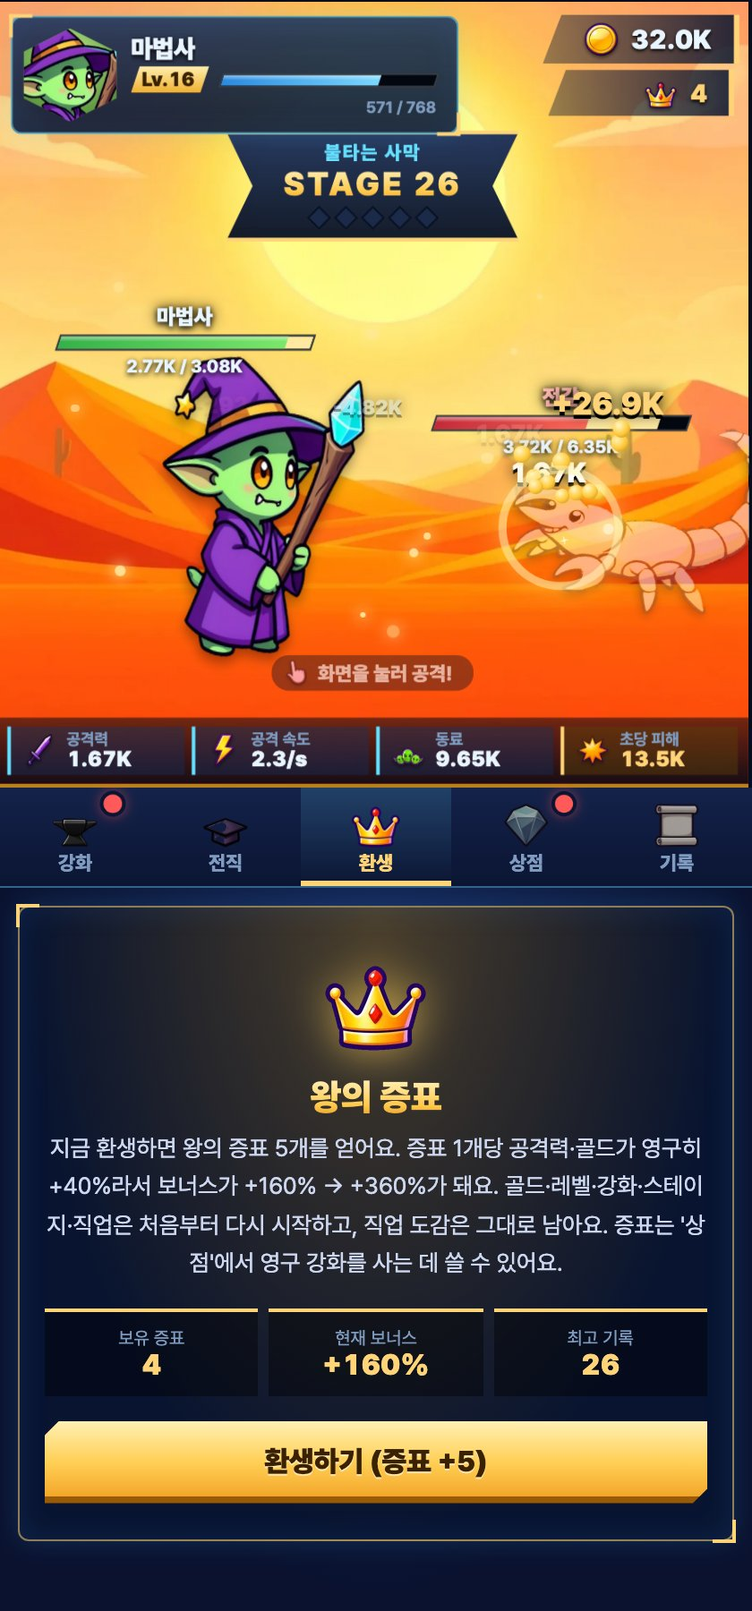
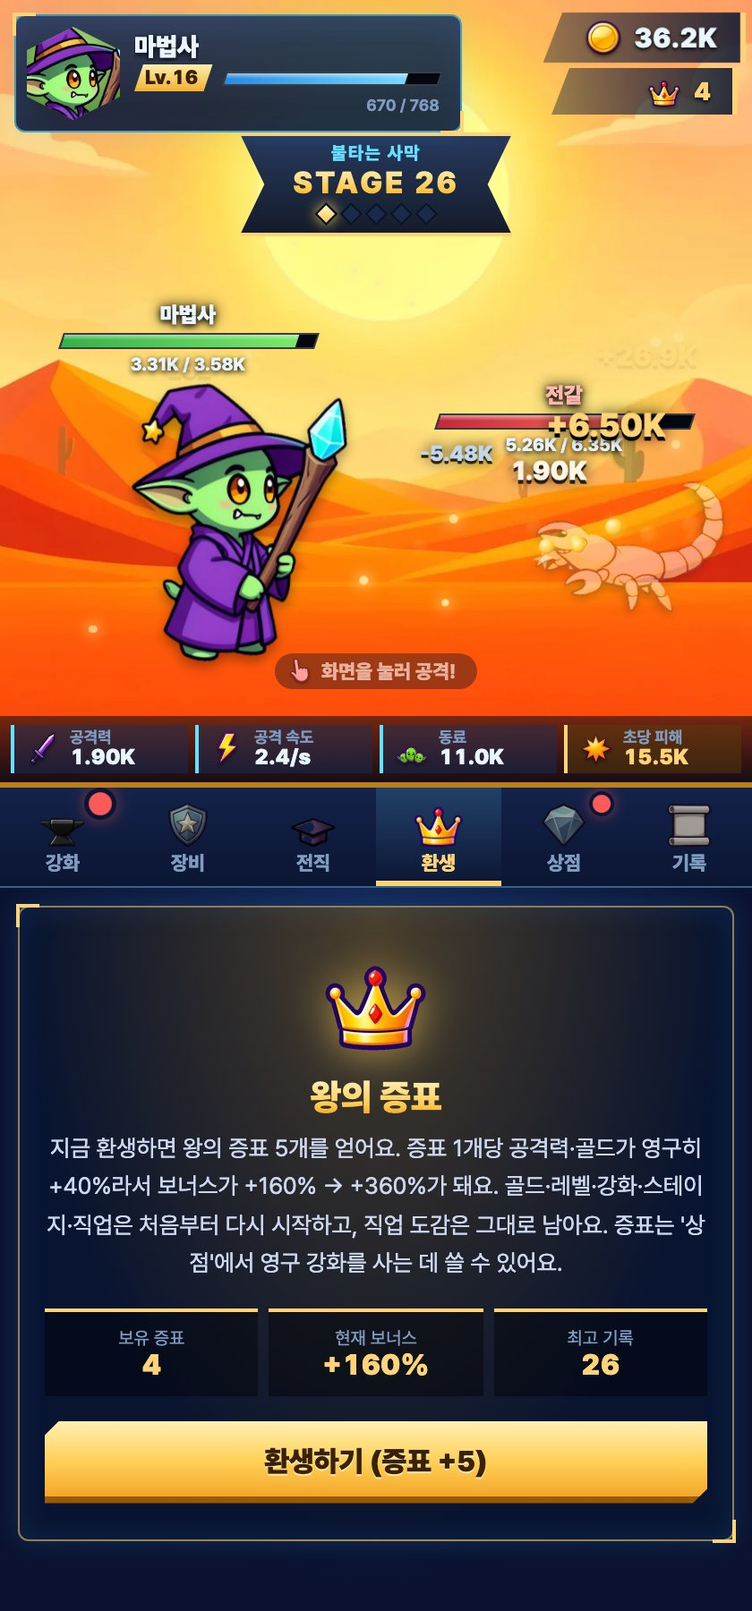
README·스크린샷 갱신, 시뮬레이터 씨앗 평균, 장비 브라우저 점검 추가

diff --git a/tools/ui-check.js b/tools/ui-check.js
@@ -33,14 +33,25 @@ const sleep = (ms) => new Promise((r) => setTimeout(r, ms));
     await send('Emulation.setDeviceMetricsOverride', { width: 420, height: 900, deviceScaleFactor: 1, mobile: true });
 
     // 저장 데이터: 스테이지 20 근처, 증표 20개, 골드 넉넉히
-    const s = G.createState(0); s.tokens = 20; s.gold = 5e4; s.level = 22; s.stage = 21; s.runBest = s.bestStage = 21;
+    const s = G.createState(0); s.tokens = 20; s.gold = 5e4; s.level = 22; s.stage = 6; s.runBest = s.bestStage = 21;
     s.cls = 'mage'; s.adv = 'pyromancer'; s.mastered.pyromancer = true; s.dex.pyromancer = { best: 24, kills: 300, runs: 1 };
+    // 장비: 무기 하나를 차고, 가방에 종류·등급이 다른 장비 6개
+    const it = (o) => Object.assign({ id: 1, slot: 'weapon', kind: 'dmg', r: 0, ilvl: 10, val: 5, n: 0 }, o);
+    s.autoSell = -1;
+    s.equip.weapon = it({ id: 1, r: 0, val: 5 });
+    s.bag.push(it({ id: 2, r: 2, val: 30, ilvl: 18 }), it({ id: 3, slot: 'armor', kind: 'hp', r: 1, val: 12 }),
+      it({ id: 4, slot: 'accessory', kind: 'gold', r: 0, val: 7 }), it({ id: 5, slot: 'weapon', r: 1, val: 9 }),
+      it({ id: 6, slot: 'accessory', kind: 'aps', r: 3, val: 11, ilvl: 20 }), it({ id: 7, slot: 'armor', kind: 'hp', r: 0, val: 6 }));
+    s.itemSeq = 7;
     s.hp = G.maxHp(s);
     const save = G.serialize(s, Date.now());
     fs.writeFileSync(path.join(profile, 'seed.html'), '<!doctype html><title>s</title>');
     await send('Page.navigate', { url: 'file://' + path.join(profile, 'seed.html') }); await sleep(300);
     await ev(`localStorage.setItem('goblin-idle-save-v1', ${JSON.stringify(save)})`);
     await send('Page.navigate', { url: 'file://' + ROOT + '/index.html' }); await sleep(1500);
+
+    // 전투 중 장비가 무작위로 떨어지면 가방 개수가 달라져 점검이 흔들린다 → 기본은 드롭이 없게 난수를 고정한다
+    await ev(`Game.setRandom(() => 0.999)`);
 
     console.log('탭 공격 모션');
     const before = await ev(`document.getElementById('monsterHpText').textContent`);
@@ -96,6 +107,58 @@ const sleep = (ms) => new Promise((r) => setTimeout(r, ms));
     await ev(`document.querySelector('.dexcard.is-off').click()`); await sleep(300);
     check('미달성 카드는 힌트 창이 열린다', await ev(`document.getElementById('modalTitle').textContent === '???'`));
     await ev(`document.querySelector('#modalActions .btn').click()`);
+
+    console.log('장비');
+    await ev(`document.querySelector('[data-go="gear"]').click()`); await sleep(400);
+    check('장비 탭이 열린다', await ev(`!document.querySelector('.tab[data-tab="gear"]').hidden`));
+    check('장착 칸이 3개 보이고 무기만 채워져 있다', (await ev(`document.querySelectorAll('#slots .slot').length`)) === 3 && (await ev(`document.querySelectorAll('#slots .slot.is-empty').length`)) === 2);
+    check('가방에 장비 6개가 보인다', (await ev(`document.querySelectorAll('#bag .gitem[data-item]').length`)) === 6);
+    check('드롭 확률표에 다섯 등급이 나온다', (await ev(`document.querySelectorAll('#dropInfo .droptable tr').length`)) === 6);
+    await shot('gear');
+    // 희귀 무기(id 2)를 눌러 상세 창 → 비교 표시 → 장착
+    await ev(`document.querySelector('.gitem[data-item="2"]').click()`); await sleep(300);
+    check('가방 장비를 누르면 정보 창이 열리고 장착 중인 장비와 비교해 보여 준다', await ev(`!document.getElementById('modal').hidden && document.getElementById('modalBody').textContent.includes('▲')`));
+    await shot('itemmodal');
+    await ev(`document.querySelector('#modalActions .btn--gold').click()`); await sleep(350);
+    check('장착하면 무기 칸이 그 장비(희귀)로 바뀐다', await ev(`!!document.querySelector('#slots .slot.r2[data-slot="weapon"]')`));
+    check('밀려난 기존 무기는 가방으로 간다 (가방 6개 유지)', (await ev(`document.querySelectorAll('#bag .gitem[data-item]').length`)) === 6);
+    // 판매
+    const goldBefore = await ev(`document.getElementById('gold').textContent`);
+    await ev(`document.querySelector('.gitem[data-item="7"]').click()`); await sleep(250);
+    await ev(`document.querySelector('#modalActions .btn--blue').click()`); await sleep(350);
+    check('판매하면 가방에서 사라진다', (await ev(`document.querySelectorAll('#bag .gitem[data-item]').length`)) === 5);
+    check('판매하면 골드가 늘어난다', (await ev(`document.getElementById('gold').textContent`)) !== goldBefore);
+    // 영웅 이상은 판매 전에 한 번 더 확인
+    await ev(`document.querySelector('.gitem[data-item="6"]').click()`); await sleep(250);
+    await ev(`document.querySelector('#modalActions .btn--blue').click()`); await sleep(300);
+    check('영웅 장비를 팔려 하면 확인 창이 한 번 더 뜬다', (await ev(`document.getElementById('modalTitle').textContent`)) === '정말 팔까요?');
+    await ev(`document.querySelector('#modalActions .btn:not(.btn--blue)').click()`); await sleep(200);
+    check('취소하면 그대로 남는다', (await ev(`document.querySelectorAll('#bag .gitem[data-item]').length`)) === 5);
+    // 일괄 판매 (노말·고급만)
+    await ev(`document.getElementById('sellAllBtn').click()`); await sleep(250);
+    await ev(`document.querySelector('#modalActions .btn--gold').click()`); await sleep(350);
+    check('일괄 판매하면 희귀 이상만 남는다', (await ev(`[...document.querySelectorAll('#bag .gitem[data-item]')].every((b) => b.classList.contains('r2') || b.classList.contains('r3') || b.classList.contains('r4'))`)));
+    // 설정은 바로 저장된다
+    await ev(`(() => { const sel = document.getElementById('autoSell'); sel.value = '2'; sel.dispatchEvent(new Event('change')); document.getElementById('autoEquip').click(); })()`); await sleep(200);
+    const saved = JSON.parse(await ev(`localStorage.getItem('goblin-idle-save-v1')`));
+    check('자동 판매·자동 장착 설정이 저장된다', saved.autoSell === 2 && saved.autoEquip === false, JSON.stringify([saved.autoSell, saved.autoEquip]));
+    // 전설 장비를 강제로 떨어뜨려 연출·기록·알림 점 확인
+    await ev(`document.querySelector('[data-go="upgrade"]').click()`); await sleep(300);
+    await ev(`(() => { let c = 0; Game.setRandom(() => (c++ % 6 === 0 ? 0 : 0.9999)); })()`);
+    let legend = false;
+    for (let i = 0; i < 12 && !legend; i++) {
+      await ev(`(() => { const r = document.getElementById('scene').getBoundingClientRect(); document.getElementById('scene').dispatchEvent(new PointerEvent('pointerdown', { clientX: r.left + r.width*0.68, clientY: r.top + r.height*0.6, bubbles: true, cancelable: true })); })()`);
+      await sleep(120);
+      legend = await ev(`[...document.querySelectorAll('#log li')].some((li) => li.textContent.includes('전설'))`);
+    }
+    await ev(`Game.setRandom(() => 0.999)`);   // 다시 드롭이 없게
+    check('전설 장비가 드롭되면 기록에 남는다', legend);
+    check('장비 탭에 새 장비 알림 점이 뜬다', await ev(`!document.querySelector('[data-go="gear"] .dot').hidden`));
+    await shot('legend');
+    await ev(`document.querySelector('[data-go="gear"]').click()`); await sleep(300);
+    check('장비 탭을 열면 새 장비에 NEW가 붙는다', (await ev(`document.querySelectorAll('#bag .gitem.is-new, #slots .slot').length`)) > 0);
+    await ev(`document.querySelector('[data-go="upgrade"]').click()`); await sleep(300);
+    check('탭을 떠나면 알림 점이 사라진다', await ev(`document.querySelector('[data-go="gear"] .dot').hidden`));
 
     console.log('오래 돌려도 안정적인가 (전투 10초)');
     await ev(`document.querySelector('[data-go="upgrade"]').click()`);

diff --git a/tools/simulate.js b/tools/simulate.js
@@ -2,6 +2,14 @@
 // 사용법: node tools/simulate.js [분(기본 30)] [직업경로 예: warrior/knight (생략하면 전부 비교)]
 const G = require('../game.js');
 
+// 장비 드롭도 무작위라 한 번의 결과는 운에 흔들린다. 씨앗이 있는 난수로 여러 번 돌려 평균을 낸다.
+function seeded(seed) {
+  let a = seed >>> 0;
+  return () => { a = (a + 0x6D2B79F5) >>> 0; let t = a; t = Math.imul(t ^ (t >>> 15), t | 1); t ^= t + Math.imul(t ^ (t >>> 7), t | 61); return ((t ^ (t >>> 14)) >>> 0) / 4294967296; };
+}
+const SEEDS = [1, 2, 3, 4, 5, 6, 7, 8];
+const mean = (xs) => xs.reduce((a, b) => a + b, 0) / xs.length;
+
 const BUY_ORDER = ['weapon', 'armor', 'speed', 'companion', 'loot'];
 
 // 가장 싼 강화부터 산다 (골드를 남기지 않는 '완벽히 쓰는' 봇)
@@ -32,12 +40,23 @@ function playRun(s, path, seconds, marks) {
   return t;
 }
 
-// 한 경로로 minutes분 동안 플레이 (환생 없이)
+// 한 경로로 minutes분 동안 플레이 (환생 없이). 씨앗마다 돌려 평균을 낸다.
+// 도달 시간은 절반 이상의 씨앗이 도달한 경우에만 평균을 내고, 아니면 null.
 function runOne(path, minutes) {
-  const s = G.createState(0);
-  const marks = [10, 20, 30, 40, 50].map((stage) => ({ stage, t: null }));
-  playRun(s, path, minutes * 60, marks);
-  return { s, marks };
+  const stages = [10, 20, 30, 40, 50];
+  const runs = SEEDS.map((seed) => {
+    G.setRandom(seeded(seed));
+    const s = G.createState(0);
+    const marks = stages.map((stage) => ({ stage, t: null }));
+    playRun(s, path, minutes * 60, marks);
+    return { final: s.runBest, level: s.level, marks };
+  });
+  const marks = stages.map((stage, i) => {
+    const ts = runs.map((r) => r.marks[i].t).filter((t) => t !== null);
+    return { stage, t: ts.length * 2 >= runs.length ? mean(ts) : null };
+  });
+  const finals = runs.map((r) => r.final);
+  return { marks, final: mean(finals), min: Math.min(...finals), max: Math.max(...finals), level: mean(runs.map((r) => r.level)) };
 }
 
 // 증표로 상점 강화를 산다: 가장 싼 것부터, 살 수 있는 만큼 (기본 3가지를 먼저 올리는 것과 비슷한 효과)
@@ -52,17 +71,21 @@ function spendTokens(s) {
   }
 }
 
-// 정체되면 환생하는 봇. 한 판을 minutes분씩 돌려 몇 번째 판에 어디까지 가는지 본다.
+// 정체되면 환생하는 봇. 한 판을 minutes분씩 돌려 몇 번째 판에 어디까지 가는지 본다 (씨앗별 평균).
 function runPrestiges(path, runMinutes, runs, usePerks) {
-  const s = G.createState(0);
-  const out = [];
-  for (let i = 0; i < runs; i++) {
-    playRun(s, path, runMinutes * 60, []);
-    out.push({ run: i + 1, stage: s.runBest, tokens: s.tokens, spent: G.perkSpent(s) });
-    G.prestige(s);
-    if (usePerks) spendTokens(s);
-  }
-  return out;
+  const all = SEEDS.map((seed) => {
+    G.setRandom(seeded(seed));
+    const s = G.createState(0);
+    const out = [];
+    for (let i = 0; i < runs; i++) {
+      playRun(s, path, runMinutes * 60, []);
+      out.push({ run: i + 1, stage: s.runBest, tokens: s.tokens, spent: G.perkSpent(s) });
+      G.prestige(s);
+      if (usePerks) spendTokens(s);
+    }
+    return out;
+  });
+  return all[0].map((_, i) => ({ run: i + 1, stage: Math.round(mean(all.map((o) => o[i].stage))), tokens: Math.round(mean(all.map((o) => o[i].tokens))), spent: Math.round(mean(all.map((o) => o[i].spent))) }));
 }
 
 const fmtMin = (t) => (t === null ? '  -  ' : (t / 60).toFixed(1).padStart(5) + '분');
@@ -74,10 +97,11 @@ for (const b of Object.keys(G.CLASSES)) for (const a of G.CLASSES[b].adv) paths.
 const selected = only ? paths.filter((p) => p.join('/') === only) : paths;
 
 console.log(`\n== 환생 없이 ${minutes}분 (스테이지 도달 시간) ==`);
-console.log('경로'.padEnd(22) + '10     20     30     40     50    최종  Lv');
+console.log(`(씨앗 ${SEEDS.length}개 평균)`);
+console.log('경로'.padEnd(22) + '10     20     30     40     50    최종(최소~최대)  Lv');
 for (const p of selected) {
-  const { s, marks } = runOne(p, minutes);
-  console.log(p.join('/').padEnd(20) + marks.map((m) => fmtMin(m.t)).join(' ') + `  ${String(s.runBest).padStart(3)}  ${s.level}`);
+  const r = runOne(p, minutes);
+  console.log(p.join('/').padEnd(20) + r.marks.map((m) => fmtMin(m.t)).join(' ') + `  ${r.final.toFixed(1).padStart(5)} (${r.min}~${r.max})  ${r.level.toFixed(0)}`);
 }
 
 console.log('\n== 환생 반복 (한 판 15분씩 10번) ==');

diff --git a/tools/screenshot.js b/tools/screenshot.js
@@ -13,10 +13,18 @@ const CHROME = process.env.CHROME || '/Applications/Google Chrome.app/Contents/M
 const PORT = 9333;
 const sleep = (ms) => new Promise((r) => setTimeout(r, ms));
 
+// 씨앗이 있는 난수: 장비 드롭이 무작위라도 스크린샷이 매번 같게 나오도록 한다
+function seeded(seed) {
+  let a = seed >>> 0;
+  return () => { a = (a + 0x6D2B79F5) >>> 0; let t = a; t = Math.imul(t ^ (t >>> 15), t | 1); t ^= t + Math.imul(t ^ (t >>> 7), t | 61); return ((t ^ (t >>> 14)) >>> 0) / 4294967296; };
+}
+
 // 봇이 강화를 사면서 플레이한 것처럼 진행시켜 보기 좋은 저장 데이터를 만든다.
 // until(s)이 참이 되는 순간에서 멈추고, 전직은 레벨 조건을 채웠을 때만 한다 (불가능한 상태를 만들지 않음).
-function makeSave({ until, cls, adv, promoteAdv = true, tokens = 0, prestiges = 0, mastered = [], dex = {}, perks = {} }) {
+function makeSave({ until, cls, adv, promoteAdv = true, tokens = 0, prestiges = 0, mastered = [], dex = {}, perks = {}, autoSell = 0, seed = 11 }) {
+  G.setRandom(seeded(seed));
   const s = G.createState(0);
+  s.autoSell = autoSell;
   s.tokens = tokens;
   s.prestiges = prestiges;
   s.perks = perks;
@@ -108,6 +116,7 @@ async function main() {
     await shot('battle-ice', makeSave({ until: (s) => s.stage >= 33, ...mage, tokens: 4 }));    // 얼음 산맥
     await shot('class', makeSave({ until: (s) => s.level >= 20, ...mage, promoteAdv: false, tokens: 2 }), { tab: 'class' });
     await shot('achievements', makeSave({ until: (s) => s.stage >= 36, ...mage, tokens: 4, prestiges: 1 }), { tab: 'log' });
+    await shot('gear', makeSave({ until: (s) => s.stage >= 40, ...mage, tokens: 4, autoSell: -1, seed: 21 }), { tab: 'gear' });
     await shot('shop', makeSave({ until: (s) => s.stage >= 20, ...mage, tokens: 24, perks: { might: 4, greed: 3, vitality: 2, click: 1 } }), { tab: 'shop' });
     await shot('codex', makeSave({
       until: (s) => s.level >= 20, ...mage, tokens: 8, mastered: ['knight', 'sniper', 'necromancer'],

diff --git a/README.md b/README.md
@@ -6,12 +6,13 @@
 
 <p align="center">
   <img src="docs/battle.jpg" width="24%" alt="어둠의 동굴 보스전">
-  <img src="docs/battle-ice.jpg" width="24%" alt="얼음 산맥">
-  <img src="docs/class.jpg" width="24%" alt="2차 전직 선택">
+  <img src="docs/gear.jpg" width="24%" alt="장비">
   <img src="docs/codex.jpg" width="24%" alt="직업 도감">
+  <img src="docs/shop.jpg" width="24%" alt="증표 상점">
 </p>
 <p align="center">
-  <img src="docs/shop.jpg" width="24%" alt="증표 상점">
+  <img src="docs/battle-ice.jpg" width="24%" alt="얼음 산맥">
+  <img src="docs/class.jpg" width="24%" alt="2차 전직 선택">
   <img src="docs/achievements.jpg" width="24%" alt="업적">
   <img src="docs/prestige.jpg" width="24%" alt="환생">
 </p>
@@ -24,6 +25,26 @@
   - 무기·갑옷·동료·약탈은 **레벨 10마다 효과가 1.5배**가 되는 마일스톤이 있어서, 강화를 이어 갈수록 성장이 계속됩니다.
 - 5스테이지마다 **보스**가 나옵니다. 고블린이 쓰러지면 한 스테이지 뒤로 물러납니다.
 - 10스테이지마다 **지역**이 바뀝니다: 고블린 숲 → 어둠의 동굴 → 불타는 사막 → 얼음 산맥 → 화산 지대 → 저주받은 성. 지역마다 배경과 몬스터, 떠다니는 빛의 색이 다릅니다.
+
+### 장비
+
+몬스터를 잡으면 **확률로 장비가 떨어집니다.** 일반 몬스터는 8%, 보스는 50%입니다.
+
+- **3칸:** 무기(공격력), 방어구(최대 체력), 액세서리(골드 / 공격 속도 / 동료 공격 / 직접 공격 중 하나)
+- **등급:** 노말 · 고급 · 희귀 · 영웅 · 전설. 높을수록 확률이 낮습니다.
+
+| 등급 | 일반 몬스터 | 보스 |
+|---|---|---|
+| 노말 | 62% | 0% |
+| 고급 | 25% | 45% |
+| 희귀 | 9.5% | 35% |
+| 영웅 | 3% | 16% |
+| 전설 | 0.5% | 4% |
+
+- **수치:** 등급이 높을수록 크고 ±15% 무작위이며, **높은 스테이지에서 얻을수록 커집니다**(스테이지 40에서 나온 장비는 스테이지 1의 약 2배). 전설 무기는 스테이지 40에서 공격력 +52% 안팎입니다.
+- **방치형에 맞춘 관리:** 더 좋은 장비를 얻으면 **자동 장착**하고, 정한 등급 이하는 얻자마자 **자동 판매**해 골드로 바꿉니다(둘 다 끄고 켤 수 있음). 가방은 24칸이고 가득 차면 새 장비는 자동으로 팔립니다. 노말·고급 **일괄 판매**도 있습니다.
+- 장비를 누르면 지금 낀 장비와 수치를 **비교**해 보여 주고, 영웅 이상을 팔 때는 한 번 더 확인합니다.
+- 장비는 환생해도 남고, 증표 상점의 '수집가'로 드롭 확률을 올릴 수 있습니다. 창을 닫아 둔 사이에 얻은 장비도 돌아왔을 때 알려 줍니다.
 
 ### 전직
 
@@ -61,10 +82,11 @@
 | 2 | 강타 | 직접 공격 +25% (최대 Lv.5) | 용사의 힘 Lv.3 |
 | 2 | 동료의 유대 | 동료 공격 +10% (최대 Lv.10) | 강철 체력 Lv.3 |
 | 2 | 든든한 휴식 | 오프라인 보상 한도 +1시간 (최대 Lv.4) | 탐욕 Lv.3 |
+| 2 | 수집가 | 장비 드롭 확률 +1.5%p (최대 Lv.10) | 탐욕 Lv.2 |
 | 3 | 빠른 출발 | 환생 후 무기·갑옷을 Lv.+3 상태로 시작 (최대 Lv.5) | 용사의 힘 Lv.5 |
 | 3 | 왕의 위엄 | 공격력·골드 +5% (최대 Lv.5) | 용사의 힘 Lv.5 + 탐욕 Lv.5 |
 
-가격은 레벨이 오를수록 비싸지고(다음 레벨 = 기본 가격 × (현재 레벨 + 1)개), 구매하기 전에 무엇을 얼마에 사는지 **확인 창**이 뜹니다. **강화 초기화**를 누르면 쓴 증표를 전부 돌려받아 다른 강화에 다시 쓸 수 있습니다. 전부 채우려면 증표가 445개 필요합니다.
+가격은 레벨이 오를수록 비싸지고(다음 레벨 = 기본 가격 × (현재 레벨 + 1)개), 구매하기 전에 무엇을 얼마에 사는지 **확인 창**이 뜹니다. **강화 초기화**를 누르면 쓴 증표를 전부 돌려받아 다른 강화에 다시 쓸 수 있습니다. 전부 채우려면 증표가 555개 필요합니다.
 
 ### 업적
 
@@ -102,14 +124,17 @@
 - **게임 로직과 화면 코드를 분리했습니다.** `game.js`는 화면과 무관한 순수 함수만 담고, `app.js`가 화면 갱신과 입력 처리를 맡습니다. 덕분에 `game.js`는 Node.js에서 화면 없이 시뮬레이션할 수 있습니다.
 - **밸런스를 시뮬레이션으로 조정했습니다.** 강화를 자동으로 사고 전직·환생하는 봇으로 몇 시간 치 플레이를 돌려 성장 곡선을 확인합니다(`node tools/simulate.js`).
   - 처음 버전은 초반이 너무 빠르고(5분에 스테이지 20) 후반이 막혔습니다(증표 194개, 공격력 약 49배인데도 스테이지 40에서 8판 이상 정체). 강화 효과는 더하기로 늘어나는데 비용은 곱하기로 늘어서 생기는 벽이었습니다.
-  - 여러 조정안을 같은 방식으로 비교해서, 강화 레벨 10마다 효과를 1.5배로 하는 마일스톤과 몬스터 성장 곡선을 골랐습니다. 지금은 스테이지 10이 약 4분, 20이 약 7분, 30이 약 10분에 나오고, 40 부근(약 15~19분)부터 벽이 시작되어 한 판의 한계는 45~50 부근입니다. 환생을 거듭하면(한 판 15분 기준) 36 → 55 → 60 → 65로 올라가다 65 부근에서 멈추고(10판째 72), 증표 상점을 쓰는 봇은 10판째 80까지 갑니다. 상점을 다 채우는 데는 증표 445개(약 35판)가 들어서 장기 목표가 됩니다.
-  - 8가지 직업 경로가 30분 기준 서로 3스테이지 안에서 비슷하게 성장하는지도 확인했습니다(42~45). 2차 전직 레벨을 30에서 20으로 낮춘 것도 이 시뮬레이션 결과입니다(30이면 도달하기 전에 대부분 환생해서 볼 수 없었습니다).
+  - 여러 조정안을 같은 방식으로 비교해서, 강화 레벨 10마다 효과를 1.5배로 하는 마일스톤과 몬스터 성장 곡선을 골랐습니다. 지금은 스테이지 10이 약 4분, 20이 약 6분, 30이 약 9분, 40이 12~15분에 나오고, 30분 뒤에는 45~50 부근에서 벽에 닿습니다. 환생을 거듭하면(한 판 15분 기준) 43 → 59 → 66 → 69 → 73으로 올라 10판째 79이고, 증표 상점을 쓰는 봇은 10판째 86까지 갑니다. 상점을 다 채우는 데는 증표 555개(약 45판)가 들어서 장기 목표가 됩니다.
+  - 장비는 드롭이 무작위라 결과가 운에 흔들립니다. 그래서 시뮬레이터는 **씨앗이 있는 난수로 8번씩 돌려 평균**을 냅니다. 장비를 넣기 전과 비교하면 30분 뒤 도달 스테이지가 42~45에서 45~50으로, 진행이 10~15% 빨라진 정도입니다.
+  - 8가지 직업 경로가 30분 기준 서로 5스테이지 안에서 비슷하게 성장하는지도 확인했습니다(45~50). 2차 전직 레벨을 30에서 20으로 낮춘 것도 이 시뮬레이션 결과입니다(30이면 도달하기 전에 대부분 환생해서 볼 수 없었습니다).
 - **오프라인 보상도 같은 전투 코드로 계산합니다.** 별도 공식을 두지 않고 실제 전투를 빠르게 되감아 돌려서, 접속 중일 때와 결과가 어긋나지 않습니다. 오래 비운 경우 계산 간격을 넓혀 계산량을 줄입니다.
 - **직업을 데이터로 정의했습니다.** 직업마다 능력치 배율표(`mult`)만 적으면 계산식에 자동 반영되어, 새 직업을 추가하기 쉽습니다.
 - **깨진·조작된 저장 데이터에도 안전합니다.** 불러올 때 값의 범위를 보정하고, 없는 직업이나 맞지 않는 직업 조합, 없는 업적은 걷어냅니다. 업적이 생기기 전의 예전 저장 데이터도 그대로 불러옵니다. 저장소를 쓸 수 없는 환경에서도 게임은 동작합니다.
 - **업적 판정도 로직 쪽에 있습니다.** 화면은 결과(`achieve` 사건)를 받아 그리기만 하고, 판정은 처치·레벨업 같은 사건이 있을 때만 해서 매 틱 계산하지 않습니다. 업적 보너스가 밸런스 시뮬레이션에도 자동으로 들어갑니다.
-- **로직 테스트가 있습니다.** `node tools/test.js`(27개)가 업적, 직업 도감, 증표 상점, 저장·불러오기, 환생, 오프라인 보상, 진행 속도 회귀를 화면 없이 점검합니다.
+- **로직 테스트가 있습니다.** `node tools/test.js`(49개)가 업적, 직업 도감, 증표 상점, 장비(등급별 확률·자동 장착·판매·변조 방어), 저장·불러오기, 환생, 오프라인 보상, 진행 속도 회귀를 화면 없이 점검합니다.
 - **산 강화는 저장하지 않고 계산합니다.** 쓴 증표를 따로 저장하면 저장 데이터를 고쳐서 속일 수 있어서, 산 강화 레벨에서 쓴 증표를 매번 계산합니다. 번 것보다 많이 쓴 저장 데이터는 산 강화를 되돌립니다.
+- **드롭 확률이 실제로 맞는지 통계로 검사합니다.** 20만 번 굴려 등급이 높을수록 적게 나오는지, 2만 마리를 잡아 드롭률이 8% 근처인지 봅니다(씨앗이 있는 난수라 결과가 항상 같음). 로직을 일부러 망가뜨려 테스트가 실패하는지도 확인했습니다.
+- **장비 이름은 저장하지 않습니다.** 저장 데이터에는 번호만 넣고 이름은 다시 만들어서, 저장 데이터를 고쳐 화면에 글자를 끼워 넣을 수 없습니다. 수치도 그 등급·레벨에서 나올 수 있는 최댓값으로 제한하고, 없는 종류·겹치는 번호·넘치는 가방은 걸러냅니다. 이 과정에서 저장 데이터의 직업 이름이 `constructor` 같은 값이면 게임이 오류로 멈추는 예전 결함도 찾아 고쳤습니다.
 - **모션은 Web Animations로 넣었습니다.** 움직임은 `transform`·`opacity`·`filter`만 써서 휴대폰에서도 부드럽고, 화면에 떠 있는 이펙트 수를 제한해 빠르게 싸워도 쌓이지 않습니다. 운영체제의 '동작 줄이기' 설정을 켜면 움직임을 끕니다.
 - **화면을 자주 그려도 가볍게 했습니다.** 초당 10번 갱신하지만 바뀐 값만 화면에 씁니다.
 
@@ -126,7 +151,7 @@
 | `docs/` | README에 쓰는 스크린샷 |
 | `tools/make-manifest.js` | `images/` 폴더를 훑어 `manifest.js`를 만드는 스크립트 |
 | `tools/generate-images.py` | 이미지 생성 (Pollinations API, 키는 저장소 밖 파일에서 읽음) |
-| `tools/ui-check.js` | 실제 브라우저에서 눌러 보는 점검 (탭 공격 모션, 강화·상점 구매, 도감 창, 브라우저 오류) |
+| `tools/ui-check.js` | 실제 브라우저에서 눌러 보는 점검 (탭 공격 모션, 강화·상점 구매, 도감·장비 창, 전설 드롭 연출, 브라우저 오류) |
 | `tools/test.js` | 게임 로직 테스트 (업적, 저장, 환생, 오프라인 보상, 진행 속도) |
-| `tools/simulate.js` | 밸런스 시뮬레이터 (봇이 30분·환생 반복을 플레이해 성장 곡선 출력) |
+| `tools/simulate.js` | 밸런스 시뮬레이터 (봇이 30분·환생 반복을 씨앗별로 플레이해 평균 성장 곡선 출력) |
 | `tools/screenshot.js` | 진행된 저장 데이터를 넣고 헤드리스 Chrome으로 `docs/` 스크린샷을 찍음 |
